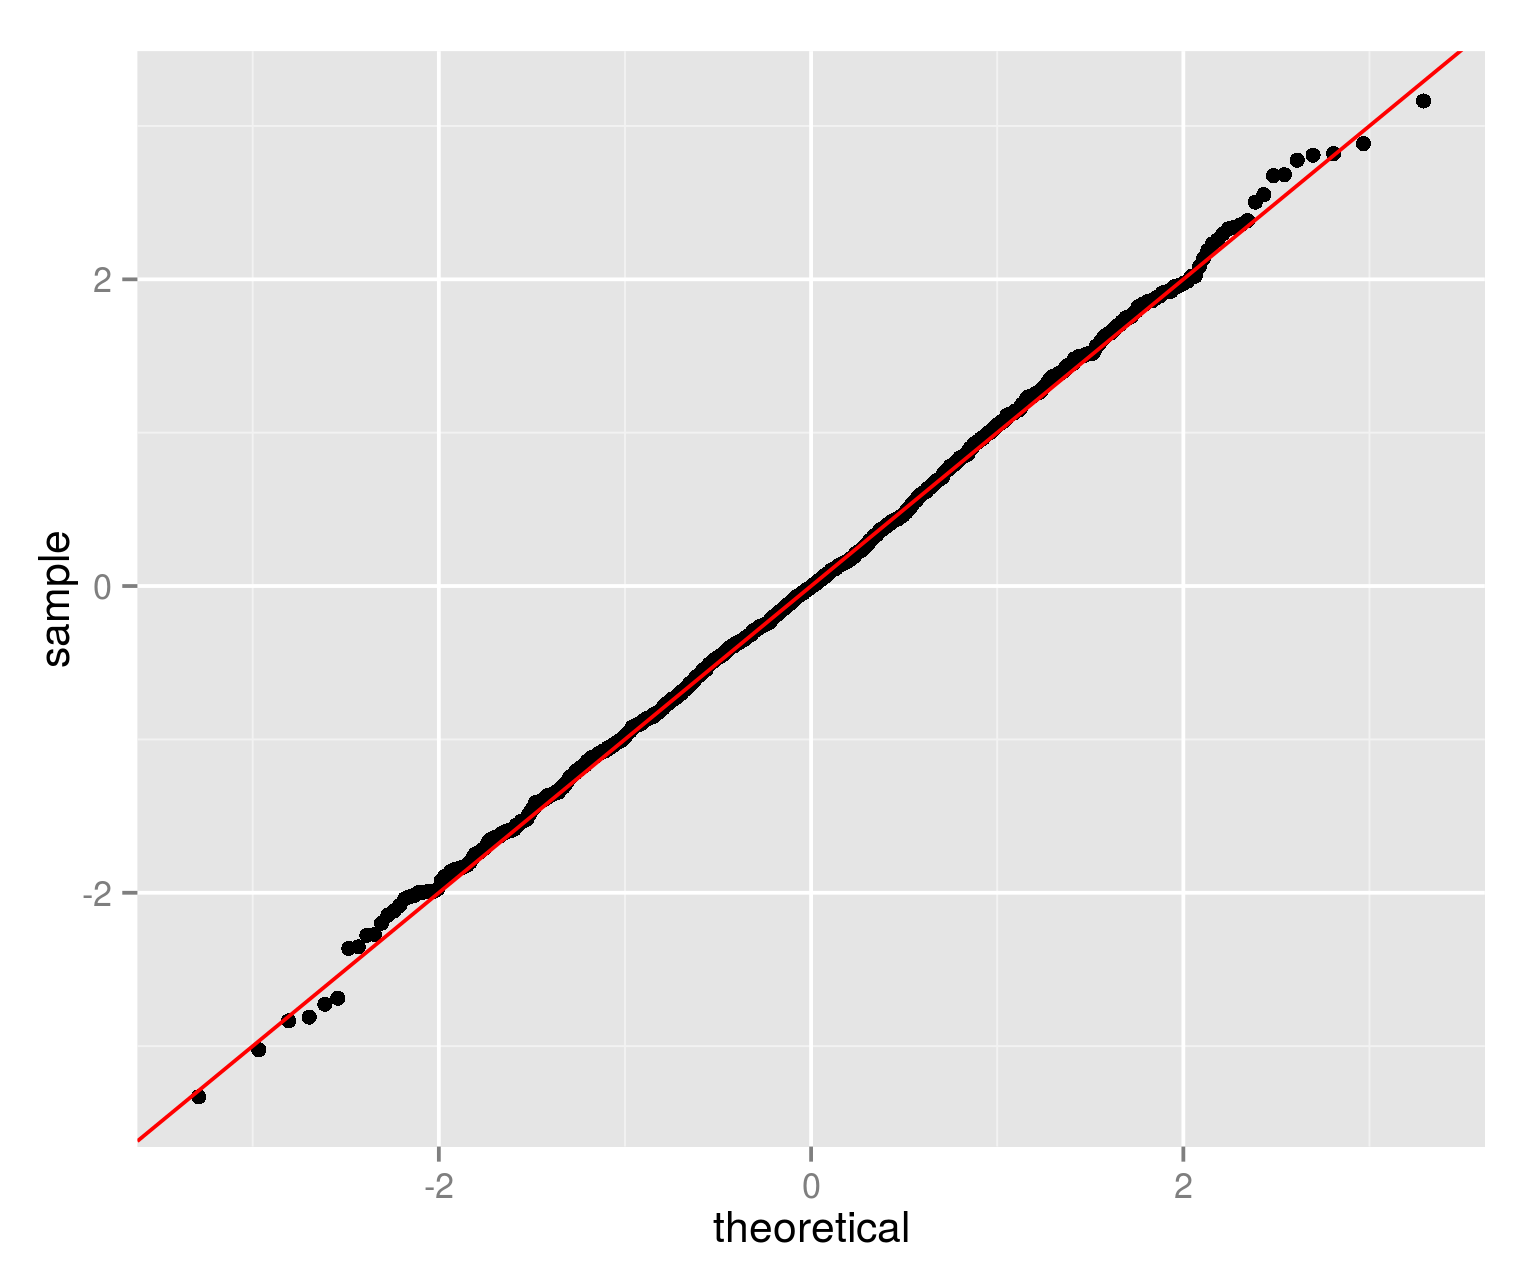
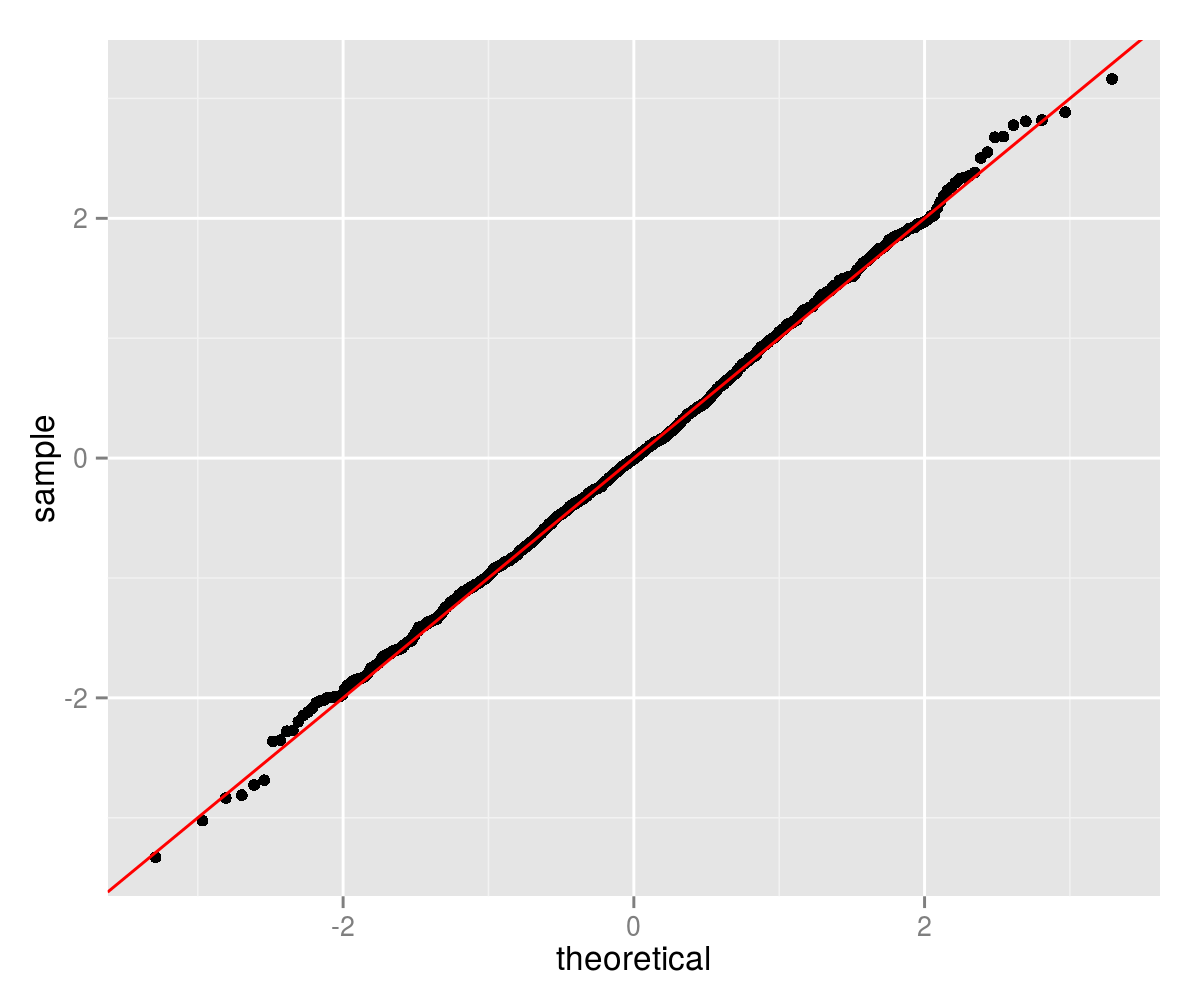
change figure size

diff --git a/README.md b/README.md
@@ -269,7 +269,7 @@ ph <- qplot(sample = retv[1, , 1], stat = "qq") + geom_abline(intercept = 0,
 print(ph)
 ```
 
-![plot of chunk marksym_check](github_extra/figure/marksym_check-1.png) 
+<img src="github_extra/figure/marksym_check-1.png" title="plot of chunk marksym_check" alt="plot of chunk marksym_check" width="600px" height="500px" />
 
 # Enough already, bring me some Scotch!
 
